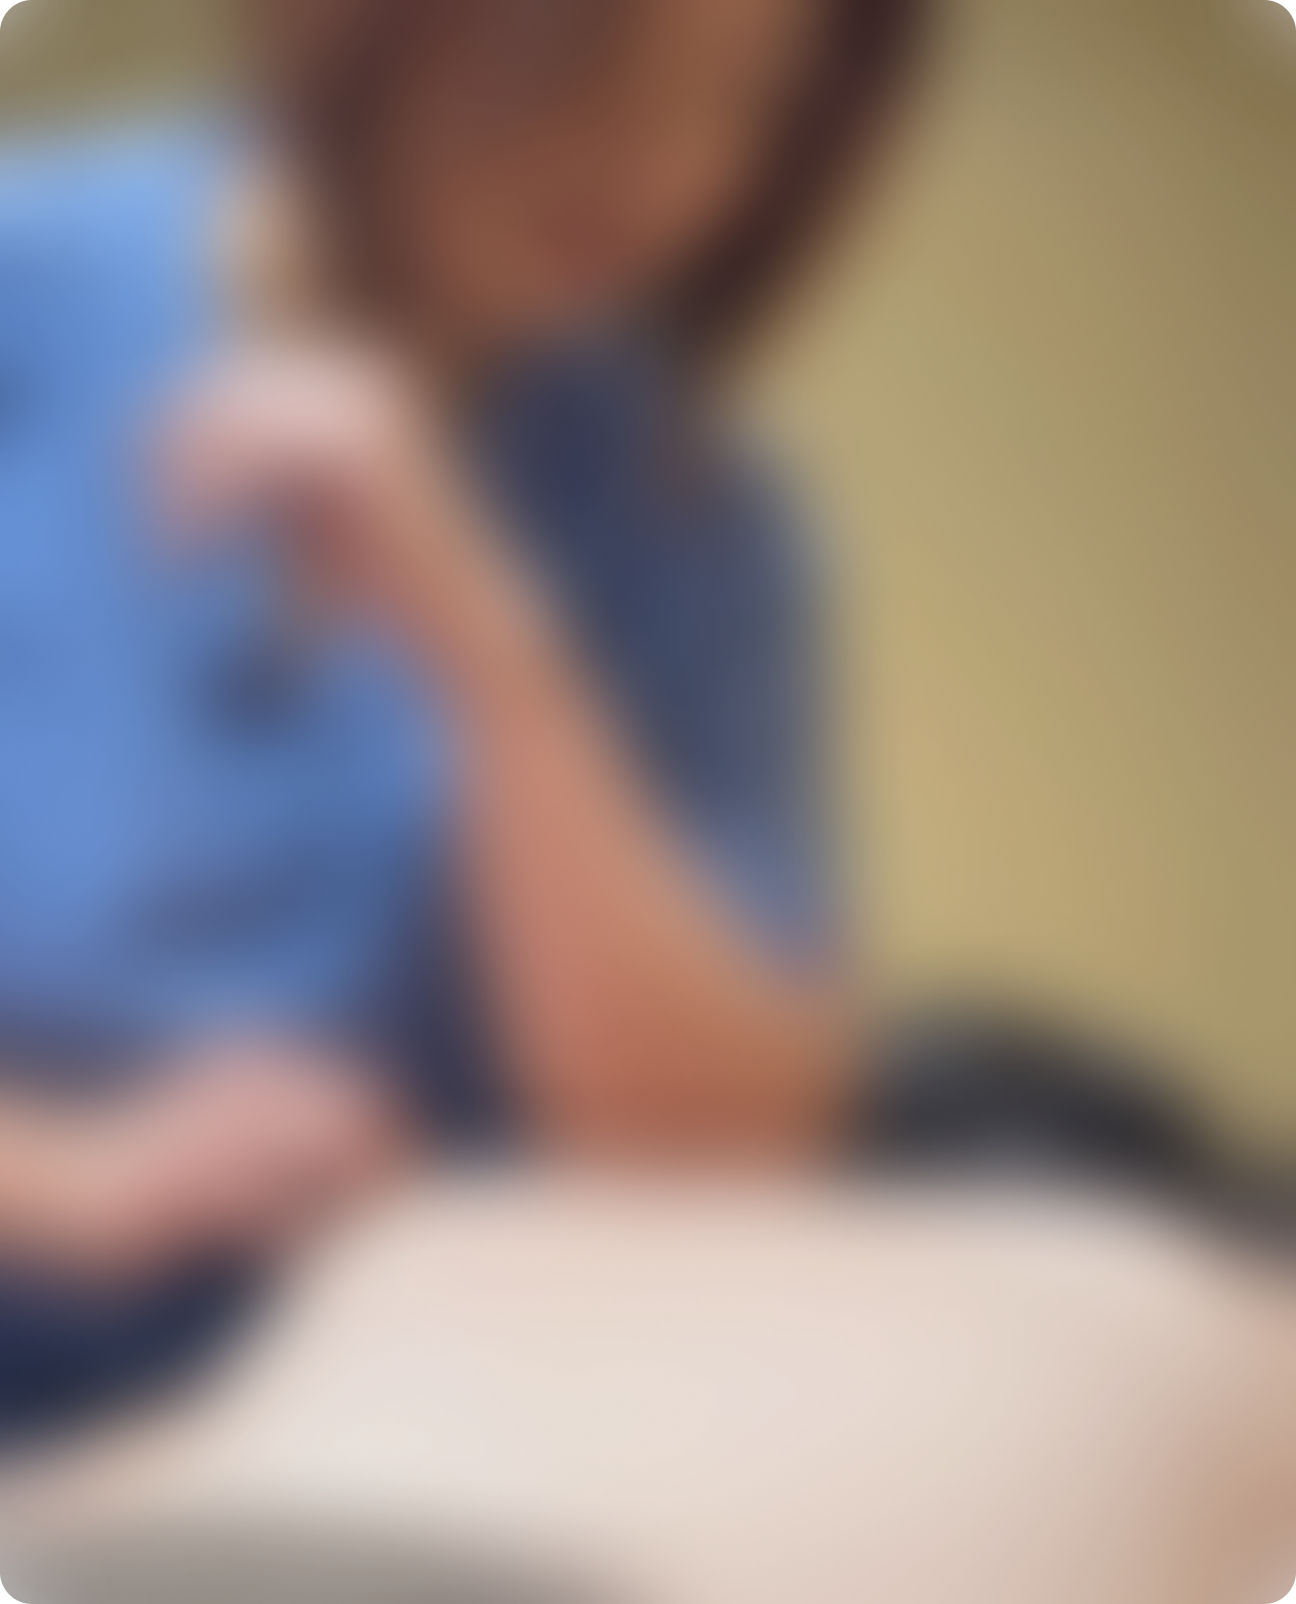
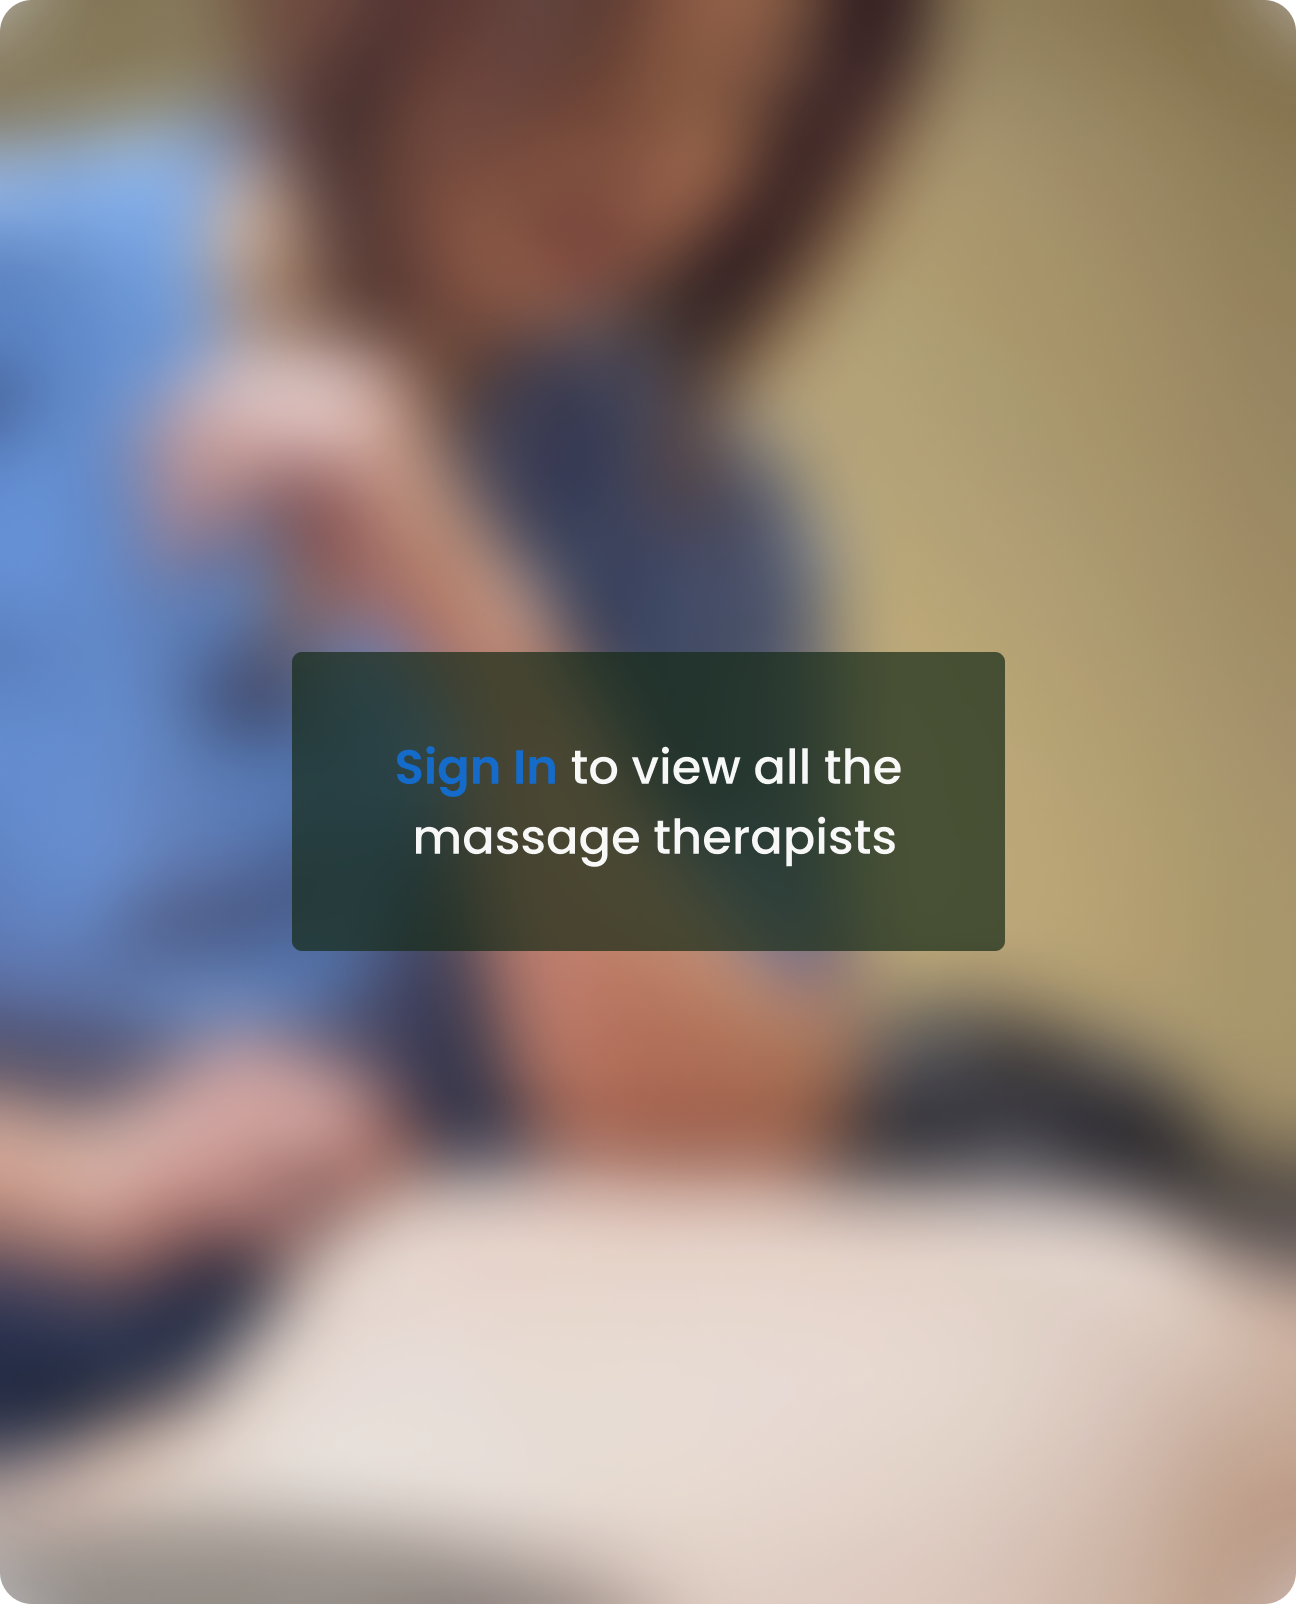
Added responsive for login and sign up page

Changed region(s): [[0.216, 0.4052, 0.8025, 0.5923]]

diff --git a/src/Components/CreateAccount/Login.jsx b/src/Components/CreateAccount/Login.jsx
@@ -10,7 +10,7 @@ function Login() {
   return (
     <div className="">
       <div className="bg-white hidden  sm:block">
-        <div className="grid grid-cols-2 px-6 items-center justify-center gap-8 h-screen max-w-7xl mx-auto">
+        <div className="grid grid-cols-1 md:grid-cols-2 px-6 items-center justify-center gap-8 h-screen max-w-7xl mx-auto">
           {/* Login Form */}
           <div className=" col-span-1">
             <div className="w-full  mx-auto overflow-hidden bg-white rounded-lg ">
@@ -28,12 +28,12 @@ function Login() {
                     Welcome Back! Select a method to log in:
                   </p>
                 </div>
-                <div className="flex items-center justify-between">
-                  <button className="btn px-12 bg-gradient-to-r from-[#e6e6e6] shadow-md to-[#fff]">
+                <div className="flex items-center gap-10 justify-between">
+                  <button className="btn flex-1  bg-gradient-to-r from-[#e6e6e6] shadow-md to-[#fff]">
                     <img className="w-5" src={google} alt="" />
                     Google
                   </button>
-                  <button className="btn px-10 bg-[#278dfe] hover:bg-[#0b7dff] text-white">
+                  <button className="btn flex-1  bg-[#278dfe] hover:bg-[#0b7dff] text-white">
                     <img className="w-6 " src={facebook} alt="" />
                     Facebook
                   </button>
@@ -103,15 +103,9 @@ function Login() {
               </div>
             </div>
           </div>
-          <div className=" col-span-1 relative">
-            <div className=" max-w-lg">
+          <div className=" col-span-1 ">
+            <div className=" max-w-lg mx-auto">
               <img className="" src={loginImg} alt="" />
-            </div>
-            <div className=" font-medium absolute bottom-[250px] right-1/3 text-center p-6 py-10 bg-black bg-opacity-45 rounded-xl max-w-72">
-              <p className="text-white text-lg">
-                <span className="text-[#1676d9]">Sign In</span> to view all the
-                massage therapists
-              </p>
             </div>
           </div>
         </div>
@@ -155,7 +149,6 @@ function Login() {
                     >
                       <span className="text-[#1676d9]">Sign In </span>
                     </label>
-                   
                     to view all the massage therapists
                   </p>
                 </div>

diff --git a/src/Components/CreateAccount/SignUp.jsx b/src/Components/CreateAccount/SignUp.jsx
@@ -1,13 +1,14 @@
 import logo from "../../assets/Images/logo.png";
-import loginImg from "../../assets/Images/login.png";
+import loginImg from "../../assets/Images/signin.png";
 import logo1 from "../../assets/Images/logo1.png";
+
 import { Link } from "react-router-dom";
 
 function SignUp() {
   return (
     <div>
-      <div className="bg-white hidden  sm:block ">
-        <div className="grid grid-cols-2 px-6 items-center justify-center gap-8 h-screen max-w-7xl mx-auto">
+      <div className="bg-white hidden sm:block ">
+        <div className="grid grid-cols-1 md:grid-cols-2 px-6 items-center justify-center gap-8 h-screen max-w-7xl mx-auto">
           {/* Login Form */}
           <div className=" col-span-1">
             <div className="w-full  mx-auto overflow-hidden bg-white rounded-lg ">
@@ -112,15 +113,8 @@ function SignUp() {
             </div>
           </div>
           <div className=" col-span-1 relative">
-            <div className=" max-w-lg">
+            <div className=" max-w-lg mx-auto">
               <img className="" src={loginImg} alt="" />
-            </div>
-            <div className=" font-medium absolute bottom-[250px] right-1/3 text-center p-6 py-10 bg-black bg-opacity-45 rounded-xl max-w-72">
-              <p className="text-white text-lg">
-                <span className="text-[#1676d9]">Create Account</span>
-                <br />
-                Fill in Your Information
-              </p>
             </div>
           </div>
         </div>
